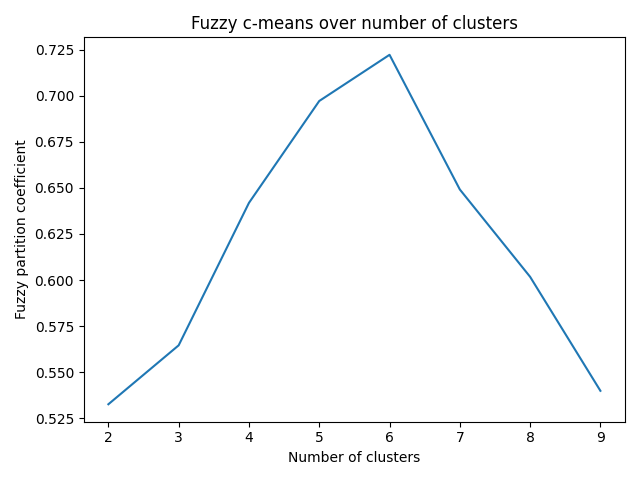
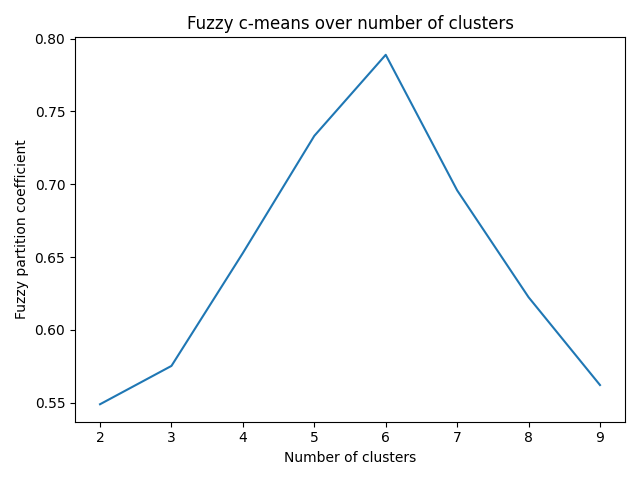
- additionally converted a fuzzy input data

diff --git a/main.py b/main.py
@@ -12,16 +12,16 @@ np.set_printoptions(formatter={"float": lambda x: "{0:0.2f}".format(x)})
 skills_sets = [
     ["Assembly", "C", "C++", "Rust"],  # System
     ["Java", "C#", "Go"],  # OOP
+    ["JavaScript", "HTML", "CSS", "PHP"],  # Web
     ["Python", "R"],  # Statistics
     ["bash", "zsh", "sh", "batch"],  # Scripting / Shells
-    ["JavaScript", "HTML", "CSS", "PHP"],  # Web
     ["SAP", "Microsoft Dynamics", "Odoo", "Spreadsheet"],  # Management
 ]
 
 seed = int(np.pi * 37)  # Seed for random number generation
 np.random.seed(seed)
 
-N = 300  # The number of nodes
+N = 400  # The number of nodes
 
 min_skill_sets = 1  # The minimum of skills set to add to a user
 max_skill_sets = 2  # The maximal of skills set to add to a user
@@ -30,20 +30,17 @@ max_edits = 3  # Maximal of random edition of the user skill sets
 
 # Possible distances metrics : "cityblock", "dice", "euclidean", "jaccard", "minkowski"
 clustering_range = (2, 10)
-distance_function = "euclidean"
 
+fig, axs = plt.subplots(2, 2, figsize=(12, 12))
+fig.suptitle('Principal component analysis', fontsize=16)
+axs[0, 0].set_ylabel('Ground Truth')
+axs[1, 0].set_ylabel('KMeans')
+axs[1, 1].set_ylabel('Fuzzy CMeans')
 
-def use_case_fuzzy_cmean(users_skills, clusters_ground_truth):
+def use_case_fuzzy_cmean(users_skills, clusters_ground_truth, fuzzpar):
     print("Clustering")
 
-    fuzzy_skills = users_skills.astype(np.float)
-    skills_lv = [0, 0.1, 0.2, 0.3, 0.4, 0.5, 0.6, 0.7, 0.8, 0.9, 1]
-    for i in range(len(fuzzy_skills)):
-        for j in range(fuzzy_skills.shape[1]):
-            if fuzzy_skills[i, j] != 0:
-                fuzzy_skills[i, j] = np.random.choice(skills_lv)
-
-    fuzzyclustering_model = fzclustering(users_skills, range(*clustering_range), True)
+    fuzzyclustering_model = fzclustering(users_skills, range(*clustering_range), fuzzpar, True)
     # returned values with order
     # Cluster centers. Data for each center along each feature provided for every cluster (of the c requested clusters).
     print("- Number of clusters found", len(fuzzyclustering_model[0]))
@@ -58,14 +55,15 @@ def use_case_fuzzy_cmean(users_skills, clusters_ground_truth):
     #
     pca.fit(fuzzyclustering_model[0])
     new_data2 = pca.transform(fuzzyclustering_model[0])
-    c = np.concatenate((fuzzyclustering_model[1], np.array([6] * 6)))
+    c = np.concatenate((fuzzyclustering_model[1], np.array([6] * len(fuzzyclustering_model[0]))))
     new_data = np.concatenate((new_data, new_data2), axis=0)
     #
-    plt.scatter(new_data.T[0], new_data.T[1], c=c, alpha=0.5)
-    plt.show()
+    axs[1, 1].scatter(new_data.T[0], new_data.T[1], c=c, alpha=0.5)
 
     # print("Plotting graph")
     plot_graph(G, "Clustered_graph_fuzzy.png", colors=fuzzyclustering_model[1])
+
+    return fuzzyclustering_model
 
 
 def use_case_kmeans(users_skills, clusters_ground_truth):
@@ -83,14 +81,13 @@ def use_case_kmeans(users_skills, clusters_ground_truth):
     #
     pca.fit(clustering_model.cluster_centers_)
     new_data2 = pca.transform(clustering_model.cluster_centers_)
-    c = np.concatenate((clustering_model.labels_, np.array([6] * 6)))
+    c = np.concatenate((clustering_model.labels_, np.array([6] * len(clustering_model.cluster_centers_))))
     new_data = np.concatenate((new_data, new_data2), axis=0)
     #
-    plt.scatter(new_data.T[0], new_data.T[1], c=c, alpha=0.5)
-    plt.show()
+    axs[1, 0].scatter(new_data.T[0], new_data.T[1], c=c, alpha=0.5)
 
     # print("Plotting graph")
-    # plot_graph(G, "Clustered_graph_K-Means.png", colors=clustering_model.labels_)
+    plot_graph(G, "Clustered_graph_K-Means.png", colors=clustering_model.labels_)
 
 
 if __name__ == '__main__':
@@ -101,17 +98,19 @@ if __name__ == '__main__':
     users_skills_fz, clusters_ground_truth_fz = skills_gen_fz(
         skills_sets, N, min_skill_sets, max_skill_sets, min_edits, max_edits)
 
+    # Principal component analysis for ground Truth
     pca = PCA(n_components=2)
     pca.fit(users_skills_fz)
     new_data = pca.transform(users_skills_fz)
-    plt.scatter(new_data.T[0], new_data.T[1].T, c=clusters_ground_truth_fz, alpha=0.5)
-    plt.show()
+    axs[0, 0].scatter(new_data.T[0], new_data.T[1].T, c=clusters_ground_truth_fz, alpha=0.5)
 
     print("Generating graph")
     G = generate_graph(clusters_ground_truth)
 
     print("Using KMeans")
-    use_case_kmeans(users_skills, clusters_ground_truth)
+    use_case_kmeans(users_skills_fz, clusters_ground_truth_fz)
 
-    print("Using Fuzzy C-Means")
-    use_case_fuzzy_cmean(users_skills_fz, clusters_ground_truth_fz)
+    print("Using Fuzzy C-Means") # third parameter is fuzzification paramater
+    test =  use_case_fuzzy_cmean(users_skills_fz, clusters_ground_truth_fz, 1.4)
+    inta = 0
+    plt.show()

diff --git a/generate_data.py b/generate_data.py
@@ -64,10 +64,10 @@ def skills_gen_fz(skills_sets, N, min_skill_sets, max_skill_sets, min_edits, max
     clusters_ground_truth = []
 
     # knowledge level of skills for every user
-    skills_lv = [0.1, 0.2, 0.3, 0.4, 0.5, 0.6, 0.7, 0.8, 0.9, 1]
+    skills_lv_higher = [0.6, 0.8, 1]
 
     for _ in range(N):
-        user_skills = np.zeros((len(all_skills)), dtype=bool)
+        user_skills_fz = np.zeros((len(all_skills)), dtype=float)
 
         nb_skill_sets = np.random.randint(min_skill_sets, max_skill_sets)
         skills_sets_indices = np.random.choice(
@@ -77,26 +77,22 @@ def skills_gen_fz(skills_sets, N, min_skill_sets, max_skill_sets, min_edits, max
             skill_set = skills_sets[s]
             for skill in skill_set:
                 i = all_skills.index(skill)
-                user_skills[i] = 1
+                user_skills_fz[i] = np.random.choice(skills_lv_higher)
 
         nb_edits = np.random.randint(min_edits, max_edits)
         for _ in range(nb_edits):
-            # flip a random bit
-            nbTrue = user_skills.sum()
-            nbFalse = len(user_skills) - nbTrue
 
-            a = np.zeros((len(user_skills)))
-            nonzero_idxs = np.where(user_skills != 0)[0]
-            a[user_skills] = nbTrue
-            a[np.logical_not(user_skills)] = nbFalse
-            # p = np.array(user_skills)
-            # p /= p.sum()
-            p = np.full(len(user_skills), 0.5) / a
+            nonzero_idxs = np.where(user_skills_fz != 0)[0]
 
-            i = np.random.choice(range(len(all_skills)), p=p)
-            user_skills[i] ^= 1
+            notmodifiedindices = set(range(len(all_skills))) - set(nonzero_idxs)
 
-        users_skills_fz.append(user_skills)
+            notmodifiedindices = list(notmodifiedindices)
+
+            i = np.random.choice(list(notmodifiedindices))
+
+            user_skills_fz[i] = np.random.choice(skills_lv_higher)
+
+        users_skills_fz.append(user_skills_fz)
         clusters_ground_truth.append(skills_sets_indices[0])
 
     users_skills_fz = np.array(users_skills_fz)
@@ -120,11 +116,12 @@ def generate_graph(clusters_ground_truth, cluster_boost=3, m=2):
         G.add_node(c_node)
 
         degrees = np.array([G.degree[node] for node in candidates])
-        P_degrees = degrees / degrees.sum()
+        p_degrees = degrees / degrees.sum()
+
         # prefer to attach to people in it's own cluster
-        P_cluster = np.array([cluster_boost if clusters_ground_truth[node]
+        p_cluster = np.array([cluster_boost if clusters_ground_truth[node]
                                                == cluster else 1 / cluster_boost for node in candidates])
-        P = P_degrees * P_cluster
+        P = p_degrees * p_cluster
 
         while G.degree[c_node] < m:
             potential_node = np.random.randint(0, len(candidates))

diff --git a/clustering.py b/clustering.py
@@ -81,33 +81,18 @@ def evaluate_clustering(clusters_ground_truth, cluster_predicted):
         clusters_ground_truth, cluster_predicted))
 
 
-def fzclustering(users_skills, n_clusters_range, plot=False):
+def fzclustering(users_skills, n_clusters_range, fuzzpar, plot=False):
     X = users_skills
     n_clusters_range = list(n_clusters_range)
 
-    fzmodels_1 = {}
-    fzmodels_2 = {}
+    fzmodels = {}
 
-    models = {}
-    # The fuzzy partition coefficient (FPC)
     fpcs = []
-    fpcs_2 = []
 
     # Find the best number of clusters
     for n_clusters_ in n_clusters_range:
-        # kmeans = KMeans(n_clusters=n_clusters_, random_state=42,
-        #                 n_init=3, max_iter=150).fit(X)
-        # models[n_clusters_] = kmeans
-        #
-        # cntr, u, u0, d, jm, p, fpc = fuzz.cluster.cmeans(
-        #     np.transpose(X), n_clusters_, 1.4, error=0.005, maxiter=150, init=None)
-        # fpcs.append(fpc)
-        # # labels_
-        # cluster_membership = np.argmax(u, axis=0)
-        # fzmodels_1[n_clusters_] = cntr, u, u0, d, jm, p, fpc, cluster_membership
-
         # another library
-        fuzzy_fcm = FCM(n_clusters=n_clusters_, max_iter=150, m=1.4, error=1e-5, random_state=88)
+        fuzzy_fcm = FCM(n_clusters=n_clusters_, max_iter=50, m=fuzzpar, error=1e-5, random_state=88)
         fuzzy_fcm.fit(X)
 
         fcm_centers = fuzzy_fcm.centers
@@ -116,13 +101,11 @@ def fzclustering(users_skills, n_clusters_range, plot=False):
         fuzzy_clustering_coeff = fuzzy_fcm.partition_coefficient
         pec = fuzzy_fcm.partition_entropy_coefficient
 
-        fpcs_2.append(fuzzy_clustering_coeff)
+        fpcs.append(fuzzy_clustering_coeff)
 
-        fzmodels_2[n_clusters_] = fcm_centers, fcm_labels, fuzzy_clustering_coeff
+        fzmodels[n_clusters_] = fcm_centers, fcm_labels, fuzzy_clustering_coeff, fuzzy_fcm
 
-    # best_num_cluster_1 = max(fzmodels_1.values(), key=lambda x: x[6])
-
-    best_centers_2 = max(fzmodels_2.values(), key=lambda x: x[2])
+    best_centers = max(fzmodels.values(), key=lambda x: x[2])
 
     if plot:
         plt.figure()
@@ -130,9 +113,9 @@ def fzclustering(users_skills, n_clusters_range, plot=False):
         plt.xlabel("Number of clusters")
         plt.xticks(n_clusters_range)
         plt.ylabel("Fuzzy partition coefficient")
-        plt.plot(n_clusters_range, fpcs_2)
+        plt.plot(n_clusters_range, fpcs)
         plt.tight_layout()
         plt.savefig(f"clustering_Fuzzy_1.png")
         plt.close()
 
-    return best_centers_2
+    return best_centers
